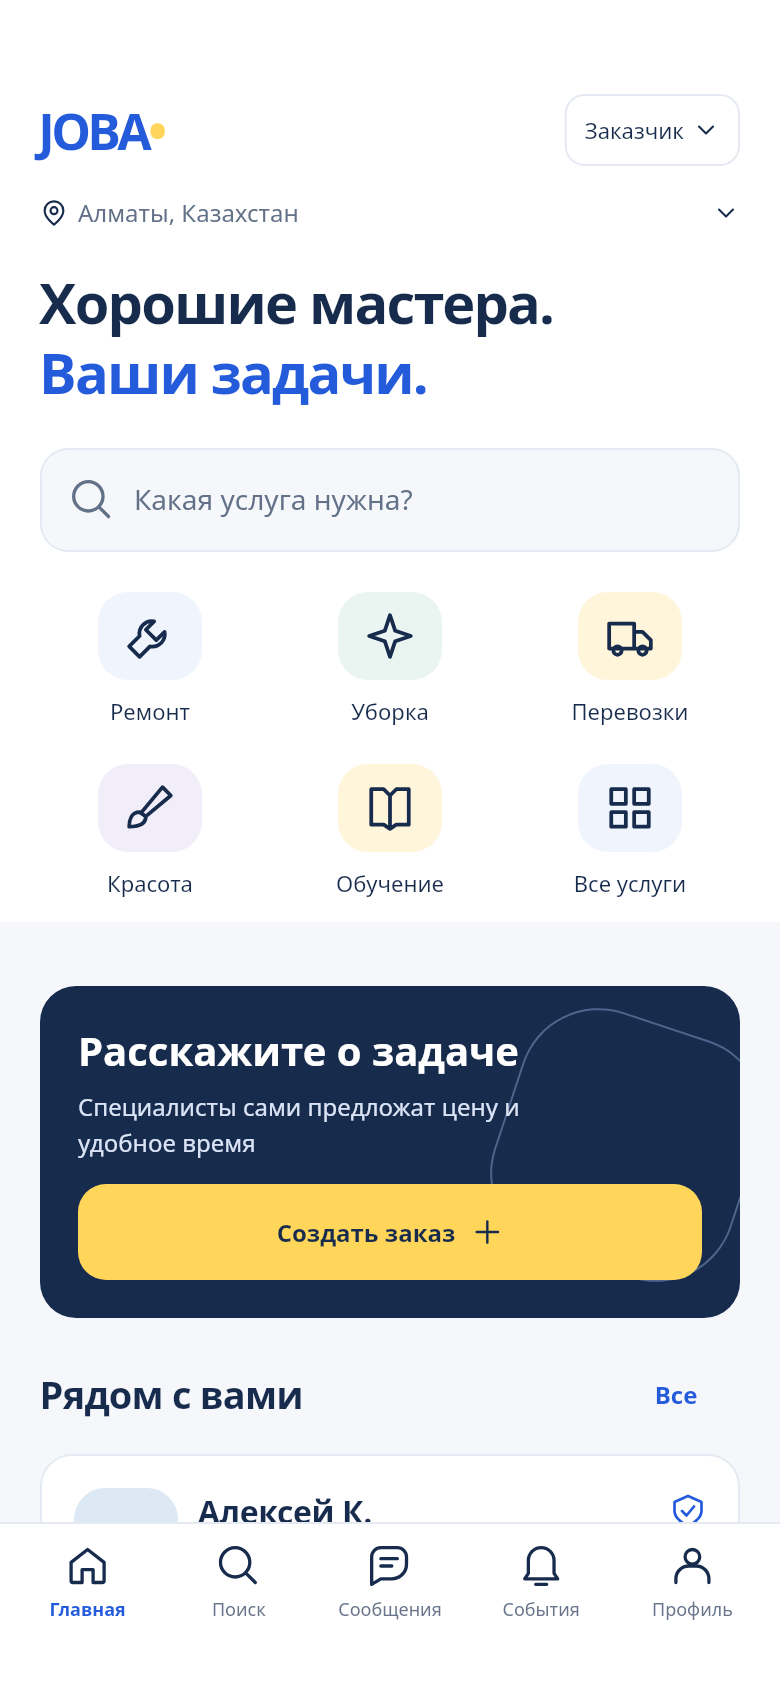
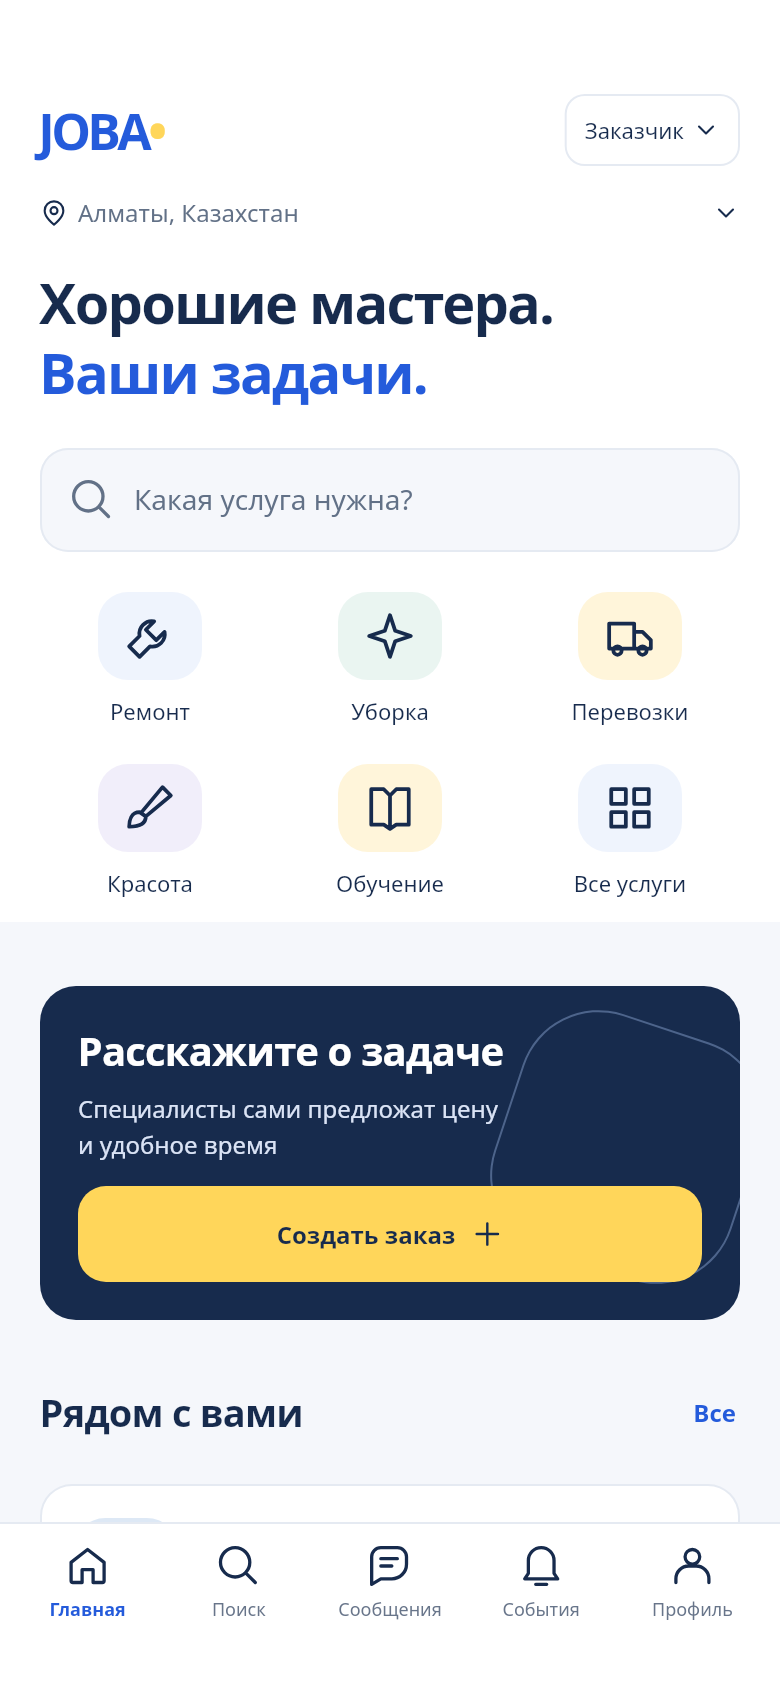
Capture real detail routes and correct image density in design audit

diff --git a/apps/mobile/lib/screens/marketplace.dart b/apps/mobile/lib/screens/marketplace.dart
@@ -1867,12 +1867,13 @@ class _MarketplaceState extends State<Marketplace> with WidgetsBindingObserver {
                             const UiText('Расскажите о задаче',
                                 style: TextStyle(
                                     fontSize: 20,
-                                    height: 1.3,
+                                    letterSpacing: -.4,
+                                    height: 1.35,
                                     fontWeight: FontWeight.w700,
                                     color: Colors.white)),
                             const SizedBox(height: 6),
                             const SizedBox(
-                                width: 248,
+                                width: 214,
                                 child: UiText(
                                     'Специалисты сами предложат цену и удобное время',
                                     style: TextStyle(

diff --git a/apps/mobile/test/visual_inventory_test.dart b/apps/mobile/test/visual_inventory_test.dart
@@ -23,9 +23,9 @@ void main() {
       (tester) async {
     final output = Platform.environment['JOBA_ALL_SCREENS_DIR'];
     if (output == null) return;
-    tester.view.physicalSize = const Size(390, 844);
-    tester.view.devicePixelRatio = 1;
-    tester.view.padding = const FakeViewPadding(top: 43, bottom: 22);
+    tester.view.physicalSize = const Size(780, 1688);
+    tester.view.devicePixelRatio = 2;
+    tester.view.padding = const FakeViewPadding(top: 86, bottom: 44);
     addTearDown(tester.view.resetPhysicalSize);
     addTearDown(tester.view.resetDevicePixelRatio);
     addTearDown(tester.view.resetPadding);
@@ -442,6 +442,7 @@ void main() {
         'route': frame['design_route'],
         'capture': filename,
         'reference_png': frame['reference_png'],
+        'actual_route': frame['native_route'] ?? aliases[route] ?? route,
         'errors': errors,
         'visual_acceptance': 'pending'
       });

diff --git a/apps/mobile/lib/core/design_widgets.dart b/apps/mobile/lib/core/design_widgets.dart
@@ -252,7 +252,7 @@ class JobaSection extends StatelessWidget {
   const JobaSection(this.title, this.onTap, {this.action = 'Все', super.key});
   @override
   Widget build(BuildContext context) => Padding(
-      padding: const EdgeInsets.only(top: 14, bottom: 6),
+      padding: const EdgeInsets.only(top: 22, bottom: 12),
       child: Row(children: [
         Expanded(
             child: UiText(title,
@@ -262,6 +262,10 @@ class JobaSection extends StatelessWidget {
                     letterSpacing: -.4,
                     fontWeight: FontWeight.w700))),
         TextButton(
+            style: TextButton.styleFrom(
+                padding: EdgeInsets.zero,
+                minimumSize: const Size(44, 44),
+                alignment: Alignment.centerRight),
             onPressed: onTap,
             child: UiText(action,
                 style:

diff --git a/scripts/prepare-visual-assets.py b/scripts/prepare-visual-assets.py
@@ -15,5 +15,5 @@ with zipfile.ZipFile(root / 'docs/design/packages/JOBA_Mobile_Prototype.zip') as
         source = args.output / ('reference-' + name + '.svg')
         target = args.output / ('joba-visual-' + name + '.png')
         source.write_bytes(package.read(entry))
-        subprocess.run(['node', '-e', "require('sharp')(process.argv[1]).resize(520,300).png().toFile(process.argv[2]).catch(error=>{console.error(error.message);process.exitCode=1;});", str(source.resolve()), str(target.resolve())], cwd=root, check=True)
+        subprocess.run(['node', '-e', "require('sharp')(process.argv[1]).resize(1040,600).png().toFile(process.argv[2]).catch(error=>{console.error(error.message);process.exitCode=1;});", str(source.resolve()), str(target.resolve())], cwd=root, check=True)
 print('Prepared original prototype illustrations for isolated visual fixtures.')

diff --git a/scripts/compare-design.py b/scripts/compare-design.py
@@ -46,7 +46,7 @@ try:
             results.append(record)
             continue
         actual = Image.open(path).convert('RGB')
-        record.update({'status': 'review_required', 'capture': str(path), 'errors': captured.get('errors', []), 'reference_size': original.size, 'capture_size': actual.size})
+        record.update({'status': 'review_required', 'capture': str(path), 'actual_route': captured.get('actual_route', captured['route']), 'errors': captured.get('errors', []), 'reference_size': original.size, 'capture_size': actual.size})
         if original.size != actual.size:
             record['status'] = 'dimension_mismatch'
             results.append(record)

diff --git a/docs/design/review/README.md b/docs/design/review/README.md
@@ -29,7 +29,7 @@ S37 — [приглашения](mobile/S37-referrals.png) и [правила](m
 
 Опциональный `visual_inventory_test.dart` снимает 42 основных мобильных экрана и 18 дополнительных состояний. Он использует изолированные API-сценарии, загружает Noto/MaterialIcons и дожидается декодирования фотографий. Рабочий клиент получает данные и фотографии из API. Браузерный прогон снимает 67 кадров админки и 5 публичных страниц через изолированный HTTP API.
 
-Всего снято 132 из 187 кадров; 55 мобильных состояний ещё не сняты. Для 34 статических адресов админки зафиксировано сообщение о неподключённом сценарии; некоторые детальные действия доступны через отдельные динамические маршруты, поэтому это не оценка отсутствия всей функции. Все значения визуальной приёмки остаются `pending`. Машиночитаемый [visual-audit.json](visual-audit.json) перечисляет каждый кадр, ошибки и наличие снимка. Доля различающихся пикселей диагностическая: текст, реальные данные и растеризация тоже влияют на неё.
+Всего снято 132 из 187 кадров; 55 мобильных состояний ещё не сняты. Для 30 статических адресов админки зафиксировано сообщение о неподключённом сценарии. Четыре детальных экрана — пользователь, заказ, дело и проверка документа — сняты через существующие динамические маршруты с ID тестовых записей; фактический маршрут сохранён в отчёте. Состояния авторизации просмотра, диалоги и другие сценарии не подменяются общим экраном. Все значения визуальной приёмки остаются `pending`. Машиночитаемый [visual-audit.json](visual-audit.json) перечисляет каждый кадр, ошибки и наличие снимка. Доля различающихся пикселей диагностическая: текст, реальные данные и растеризация тоже влияют на неё.
 
 Исправлены компоновка S03/S04, категории и блок создания заказа S06, профиль S08, выбор роли S11 и разделение просмотра/редактирования проекта S39. Выбор города открывается из главного экрана и сохраняется через API. Десктопная компоновка публичных страниц приведена к размерам исходных экспортов. Эти изменения не закрывают полную визуальную приёмку.
 
@@ -49,3 +49,5 @@ python3 scripts/compare-design.py --surface public --captures /tmp/joba-all-brow
 Текущие кадры после исправлений: [S03](mobile/S03-terms.png), [S04](mobile/S04-onboarding.png), [S06](mobile/S06-home.png), [S08](mobile/S08-contractor.png), [S11 — роль](mobile/S11-roles.png), [S39](mobile/S39-portfolio-project.png). Они используют явно тестовые записи; фотографии взяты из исходных иллюстраций макета только для визуального прогона.
 
 Проверка этого набора изменений: 42 backend-теста, 30 обычных Flutter-тестов, отдельный реальный HTTP-прогон Flutter, анализ без замечаний, Android debug APK и полный функциональный браузерный прогон прошли. Отдельно прошёл опциональный визуальный тест 60 мобильных кадров.
+
+В полном визуальном прогоне используется физический viewport 780×1688 при DPR 2 (логический 390×844), чтобы декодирование фотографий соответствовало плотности экспорта. Исходные SVG растеризуются с этой плотностью только для теста. Браузерный прогон ожидает новый 30-секундный MFA-код при повторном входе; серверный запрет повторного использования кода сохранён. W02 снимается после очистки только созданной тестом recovery-сессии, чтобы исходный кадр формы не содержал переписку предыдущего функционального сценария.
